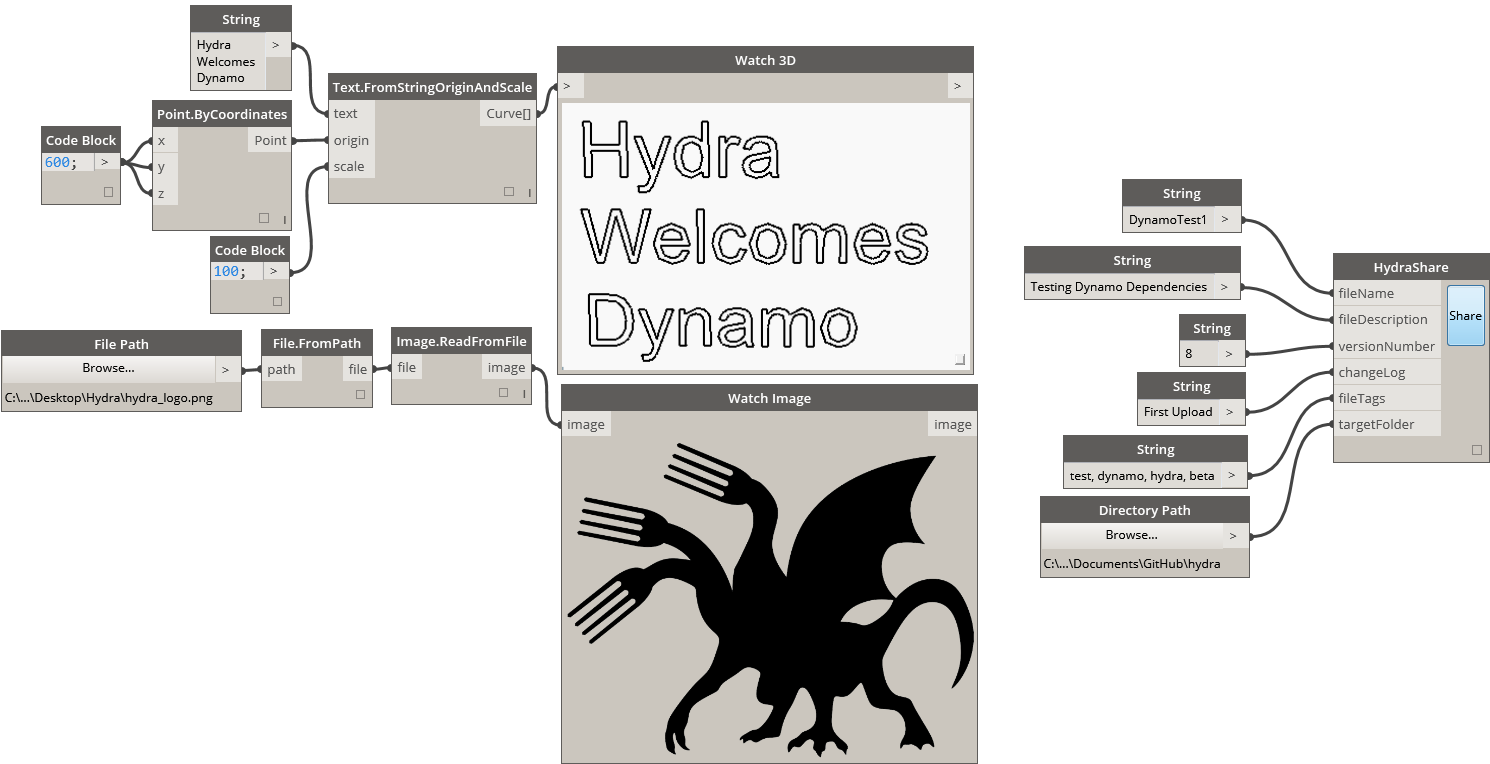
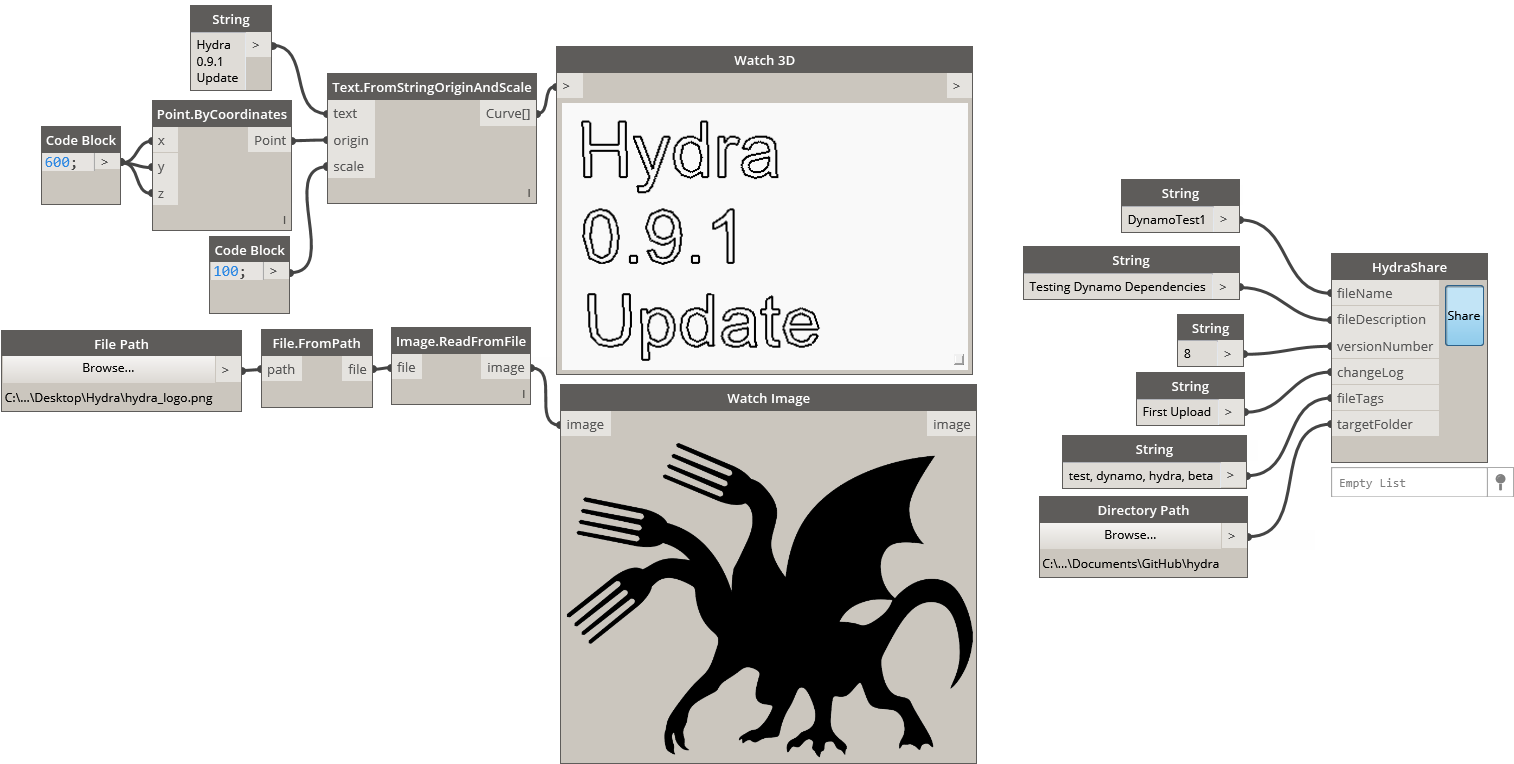
0.9.1 Test

Changed region(s): [[0.0, 0.0, 1.0, 1.0], [0.4631, 0.5118, 0.5557, 0.5419], [0.494, 0.0602, 0.5248, 0.0903]]

diff --git a/Automation_for_Architectural_Manufacturing/README.md b/Automation_for_Architectural_Manufacturing/README.md
@@ -1,0 +1,11 @@
+### Description 
+Pratt GAUD Robotics Course - Project 1
+
+This file has been submitted by [alfarok](https://github.com/alfarok)
+
+[Check out this example on Hydra!](http://hydrashare.github.io/hydra/viewer?owner=alfarok&fork=hydra&id=Automation_for_Architectural_Manufacturing)
+Week 2
+### Tags 
+robotics, robot, abb, hal, toolpathing, Grasshopper
+### Thumbnail 
+![Screenshot](https://raw.githubusercontent.com/alfarok/hydra/master/Automation_for_Architectural_Manufacturing/thumbnail.png)
